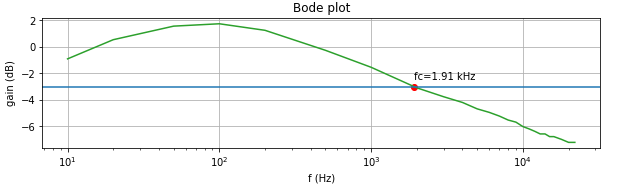
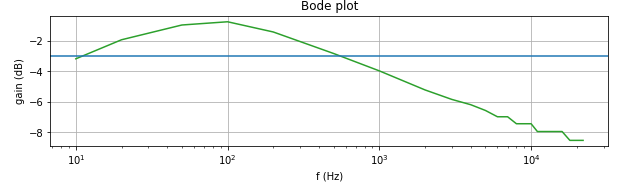
fix

Changed region(s): [[0.0, 0.0, 0.9775, 0.9066], [0.4887, 0.9066, 0.5498, 1.0]]

diff --git a/bodeplot.py b/bodeplot.py
@@ -4,7 +4,7 @@ from scipy import interpolate
 from si_prefix import si_format
 import numpy as np
 
-def bodeplot(f, g, p):
+def bodeplot(f, g, p, with_fc=False):
 
     fig, (ax1, ax2) = plt.subplots(2, 1, figsize=(10, 6))
     fig.subplots_adjust(hspace=0.5)
@@ -17,16 +17,17 @@ def bodeplot(f, g, p):
     ax1.semilogx(f, g, 'C2')
     ax1.axhline(y=-3.0)
 
-    try:
-        # find fc at -3db
-        yreduced = np.array(g) - (-3.0)
-        freduced = interpolate.UnivariateSpline(f, yreduced, s=0)
-        fc = freduced.roots()[0]
+    if with_fc:
+        try:
+            # find fc at -3db
+            yreduced = np.array(g) - (-3.0)
+            freduced = interpolate.UnivariateSpline(f, yreduced, s=0)
+            fc = freduced.roots()[0]
 
-        ax1.scatter([fc], [-3.0], c = 'red')
-        ax1.annotate("fc=" + si_format(fc, precision=2) + "Hz", xy= (fc, -3.0), xytext=(fc, -2.5) )
-    except:
-        print("Warning: can't find fc")
+            ax1.scatter([fc], [-3.0], c = 'red')
+            ax1.annotate("fc=" + si_format(fc, precision=2) + "Hz", xy= (fc, -3.0), xytext=(fc, -2.5) )
+        except:
+            print("Warning: can't find fc")
     
     ax2.set_ylabel('phase (°)')
     ax2.set_xlabel('f (Hz)')
